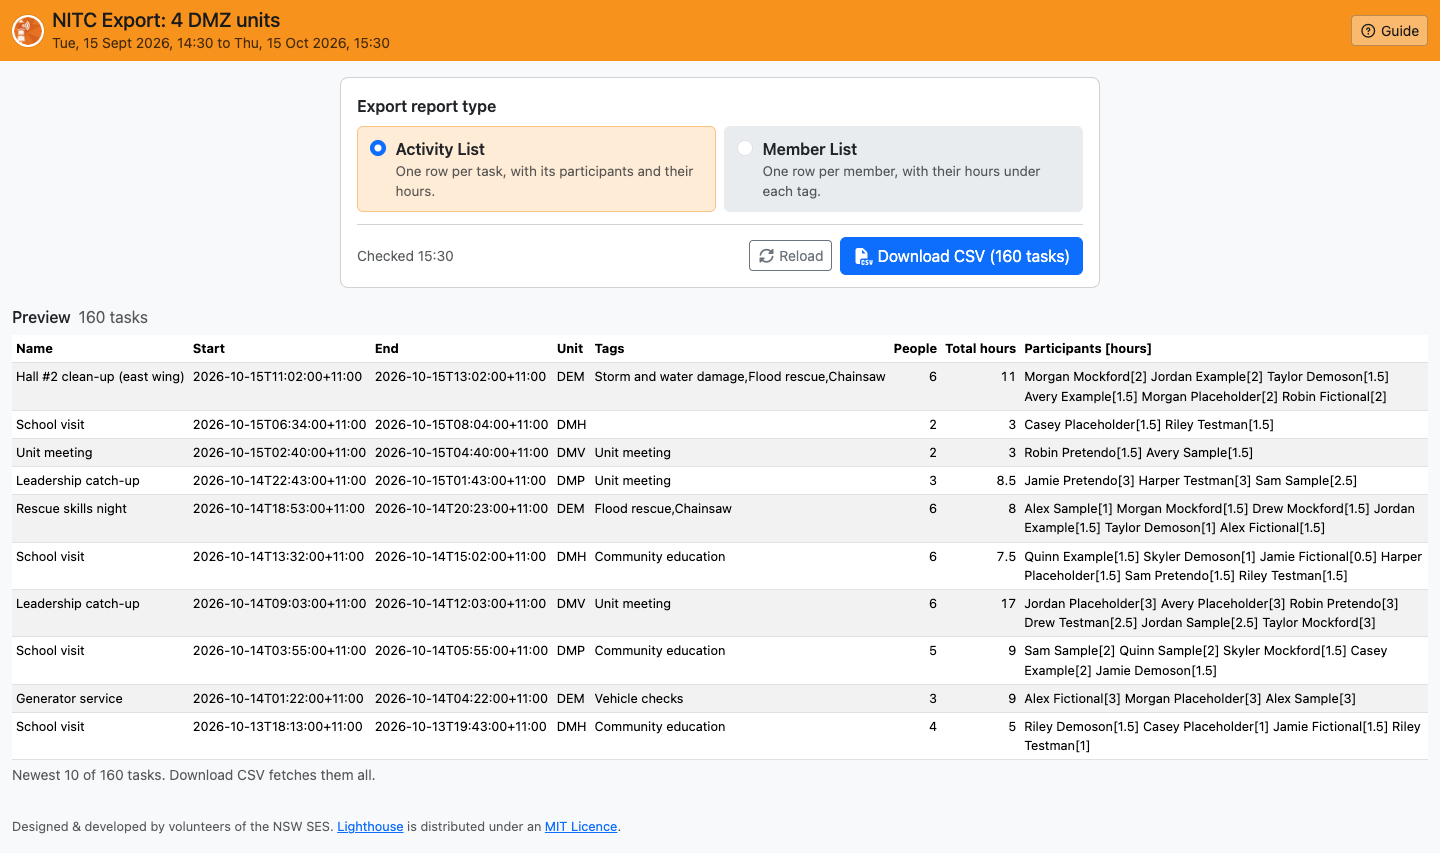
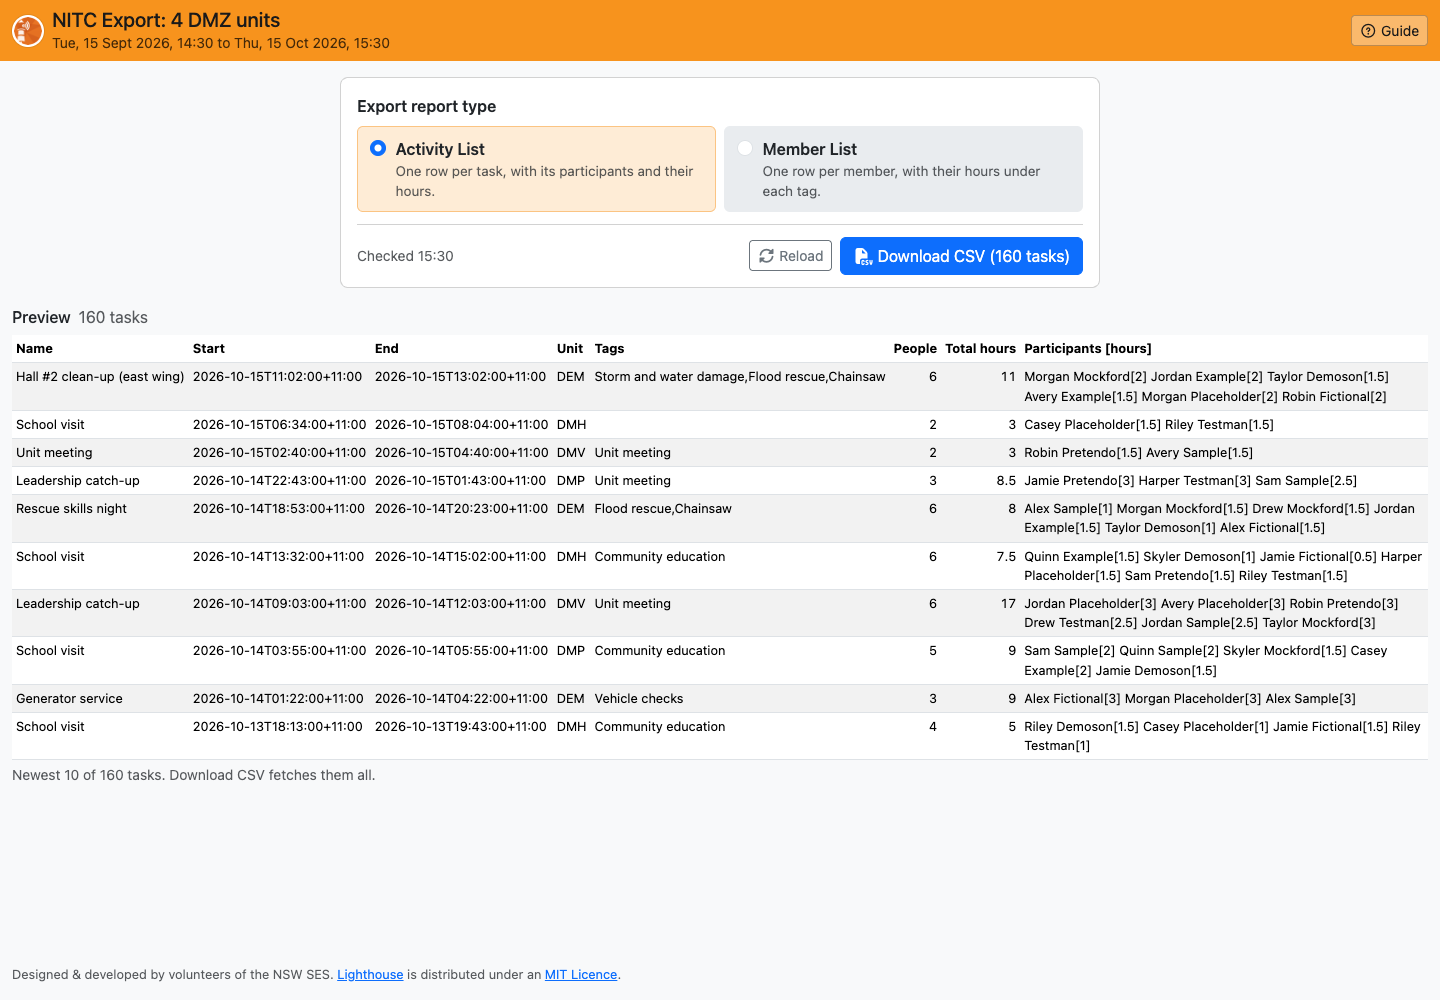
NITC Export: keep the footer at the bottom of the window on a short page

diff --git a/styles/pages/nitcexport.css b/styles/pages/nitcexport.css
@@ -3,6 +3,23 @@
 /* NITC Export page (src/pages/nitcexport/). Beacon colour, header, Guide
    button, loading ring and the Download dialog: include/lighthouse-page.css. */
 
+/* ---- footer at the bottom of the window when the page is short --------- */
+
+body {
+  display: flex;
+  flex-direction: column;
+  min-height: 100vh;
+}
+
+body > main {
+  flex: 1 0 auto;
+}
+
+/* Auto side margins in a flex column shrink the card to its content. */
+.lh-page-loading {
+  width: 100%;
+}
+
 /* ---- report type (the old page's centred box) -------------------------- */
 
 .nitc-report {
